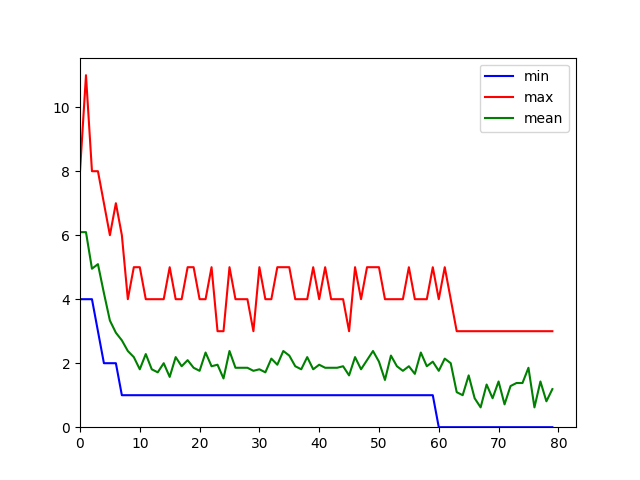
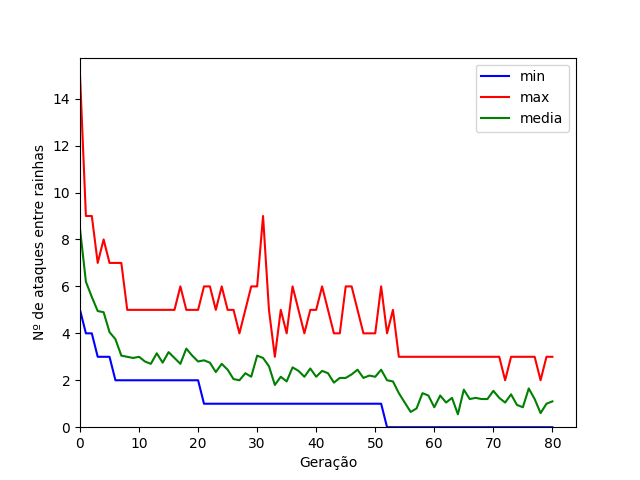
Mudando o parâmetro 'elitismo' de booleano para inteiro

diff --git a/eight_queens.py b/eight_queens.py
@@ -1,6 +1,7 @@
 from random import randint, random, sample
-from matplotlib.pyplot import gca, savefig, ylim, xlim
+from matplotlib.pyplot import gca, savefig, ylim, xlim, xlabel, ylabel
 from pandas import DataFrame
+
 
 def evaluate(individual: list) -> int:
     """
@@ -11,13 +12,15 @@ def evaluate(individual: list) -> int:
     :param individual:list
     :return:int numero de ataques entre rainhas no individuo recebido
     """
-    attacks = 0
+    attacksCount = 0
     for i in range(7):
-        for j in range(i+1, 8):
-            columnsAttack = individual[i] == individual[j]
-            diagonalAttack = individual[i] - i == individual[j] - j or individual[i] + i == individual[j] + j
-            if columnsAttack or diagonalAttack: attacks += 1
-    return attacks
+        for j in range(i + 1, 8):
+            rowAttacks = individual[i] == individual[j]
+            diagonalAttacks = (individual[i] - i == individual[j] - j 
+                            or individual[i] + i == individual[j] + j)
+            if rowAttacks or diagonalAttacks: 
+                attacksCount += 1
+    return attacksCount
 
 
 def tournament(participants: list) -> list:
@@ -27,7 +30,9 @@ def tournament(participants: list) -> list:
     :param participants:list - lista de individuos
     :return:list melhor individuo da lista recebida
     """
-    return min([(evaluate(p), p) for p in participants], key=lambda x:x[0])[1]
+    evalPopulation = [(p, evaluate(p)) for p in participants]
+    bestIndividual, bestValue = min(evalPopulation, key=lambda x:x[1])
+    return bestIndividual
 
 
 def crossover(parent1: list, parent2: list, index: int) -> tuple[list, list]:
@@ -44,9 +49,10 @@ def crossover(parent1: list, parent2: list, index: int) -> tuple[list, list]:
     :param index:int
     :return:list,list
     """
-    return (parent1[:index] + parent2[index:], 
-            parent2[:index] + parent1[index:])
-
+    offspring1 = parent1[:index] + parent2[index:]
+    offspring2 = parent2[:index] + parent1[index:]
+    return offspring1, offspring2
+            
 
 def mutate(individual: list, m: int):
     """
@@ -57,47 +63,80 @@ def mutate(individual: list, m: int):
     :param m:int - probabilidade de mutacao
     :return:list - individuo apos mutacao (ou intacto, caso a prob. de mutacao nao seja satisfeita)
     """
+    newIndividual = individual.copy()
     if random() < m: 
-        individual[randint(0, 7)] = randint(1, 8)
-    return individual
+        while newIndividual == individual:
+            newIndividual[randint(0, 7)] = randint(1, 8)
+    return newIndividual
+
+def elitism(population: list, e: int) -> list:
+    """
+    Recebe uma população de individuos e retorna uma lista com 
+    os n melhores elementos.
+    :param population: list
+    :param n: int - quantidade maxima da lista resultante
+    :return: list - melhores indíviduos da população
+    """
+    evalPopulation = sorted([(p, evaluate(p)) for p in population], 
+                            key=lambda x:x[1])
+    return [evalPopulation[i][0] for i in range(e)]
+
 
 def generate_random_population(size: int) -> list:
+    """
+    Dado um inteiro, retorna uma lista de Individuos aleatorios
+    :param size: int - numero de individuos gerados
+    :return: list - listas com os individuos
+    """
     return [[randint(1, 8) for _ in range(8)] for _ in range(size)]
 
-def evaluate_population(population: list) -> dict:
-    evaluatePopulation = [evaluate(p) for p in population]
+
+def evaluate_generation(population: list) -> dict:
+    """
+    Dado uma populacao, retorna o valor do melhor, do pior e da 
+    média dos conflitos.
+    :param population: list
+    """
+    evalPopulation = [evaluate(p) for p in population]
     return {
-        'min': min(evaluatePopulation),
-        'max': max(evaluatePopulation),
-        'mean': sum(evaluatePopulation) / float(len(evaluatePopulation)),
+        'min': min(evalPopulation),
+        'max': max(evalPopulation),
+        'media': sum(evalPopulation) / float(len(evalPopulation)),
     }
 
+
 def plot_evolution(evolution: list):
+    """
+    Dado uma lista de evolucao, salva o grafico em um arquivo png
+    :param evolution: list
+    """
     df = DataFrame(evolution)
-    df = df[['min', 'max', 'mean']]
+    df = df[['min', 'max', 'media']]
     ax = gca()
     df.plot(kind='line',y='min', color='blue', ax=ax)
     df.plot(kind='line',y='max', color='red', ax=ax)
-    df.plot(kind='line',y='mean', color='green', ax=ax)
-    ylim(ymin=0)  # this line
-    xlim(xmin=0)  # this line
+    df.plot(kind='line',y='media', color='green', ax=ax)
+    ylim(ymin=0)  
+    xlim(xmin=0)
+    ylabel("Nº de ataques entre rainhas")
+    xlabel("Geração")
     savefig("ga.png")
 
-def run_ga(g: int, n: int, k: int, m: float, e: bool, plot=False) -> list:
+
+def run_ga(g: int, n: int, k: int, m: float, e: int, plot=False) -> list:
     """
     Executa o algoritmo genético e retorna o indivíduo com o menor número de ataques entre rainhas
-    Plota o grafico da evolucao da populacao.
     :param g:int - numero de gerações
     :param n:int - numero de individuos
     :param k:int - numero de participantes do torneio
     :param m:float - probabilidade de mutação (entre 0 e 1, inclusive)
-    :param e:bool - se vai haver elitismo
+    :param e:int - número de indivíduos no elitismo
     :return:list - melhor individuo encontrado
-    """     
-    evolution = []
+    """
     population = generate_random_population(n)
+    evolution = [evaluate_generation(population)]
     for generation in range(g):
-        newPopulation = [tournament(population)] if e else [] 
+        newPopulation = elitism(population, e)
         while len(newPopulation) < n:
             individual1 = tournament(sample(population, k))
             individual2 = tournament(sample(population, k))
@@ -105,9 +144,10 @@ def run_ga(g: int, n: int, k: int, m: float, e: bool, plot=False) -> list:
             individual1 = mutate(individual1, m)
             individual2 = mutate(individual2, m)
             newPopulation.extend([individual1, individual2])
-        evolution.append(evaluate_population(newPopulation))
+        evolution.append(evaluate_generation(newPopulation))
         population = newPopulation
     if plot: plot_evolution(evolution)
     return tournament(population)
 
-run_ga(80, 20, 10, 0.6, True, True)
+
+run_ga(80, 20, 10, 0.6, 2, True)

diff --git a/test_eight_queens.py b/test_eight_queens.py
@@ -58,6 +58,20 @@ class TestEightQueens(unittest.TestCase):
         original = [2, 4, 7, 4, 8, 5, 5, 2]
         mutated = eight_queens.mutate(original[:], 1)  # sends a copy of 'original'
         self.assertNotEqual(original, mutated)
+    
+    def test_elitism(self):
+        """
+        Teste com uma lista de individuos
+        """
+        e = 2
+        participants = [
+            [5, 5, 6, 7, 4, 4, 5, 5], #12
+            [7, 2, 6, 8, 2, 6, 8, 2], #7
+            [5, 1, 4, 2, 5, 4, 1, 1], #8
+            [8, 6, 3, 2, 7, 4, 5, 8], #7
+            [3, 7, 7, 3, 4, 5, 8, 7], #8
+        ]
+        self.assertEqual([[7, 2, 6, 8, 2, 6, 8, 2],[8, 6, 3, 2, 7, 4, 5, 8]], eight_queens.elitism(participants, e))
 
     def test_run_ga(self):
         """
@@ -67,7 +81,7 @@ class TestEightQueens(unittest.TestCase):
         """
         response = timer.timeout(
             eight_queens.run_ga,
-            args=(100, 40, 2, 0.3, True),
+            args=(100, 40, 2, 0.3, 1),
             time_limit=60, default='timeout'
         )
         if response == 'timeout':
